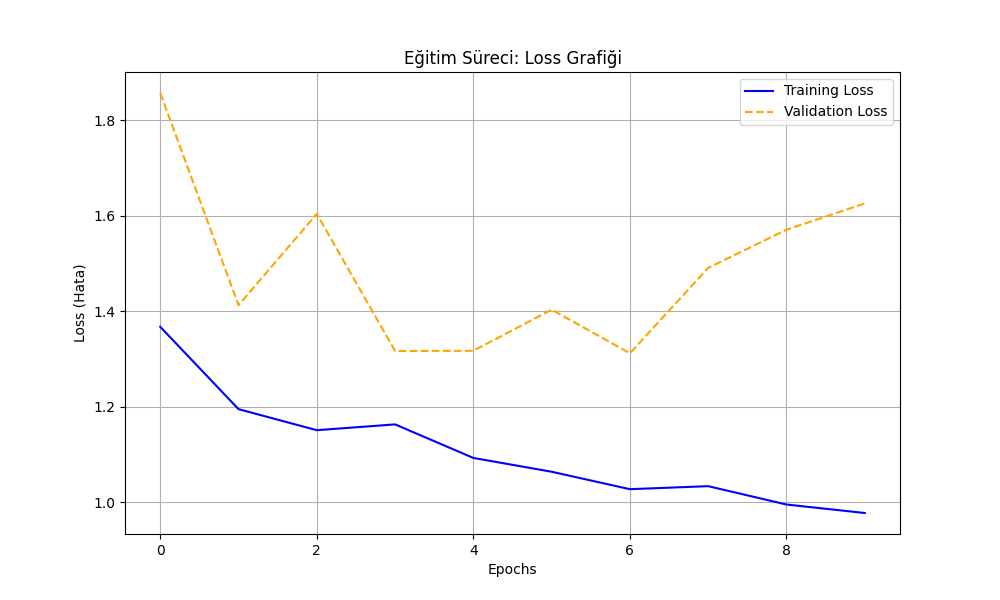
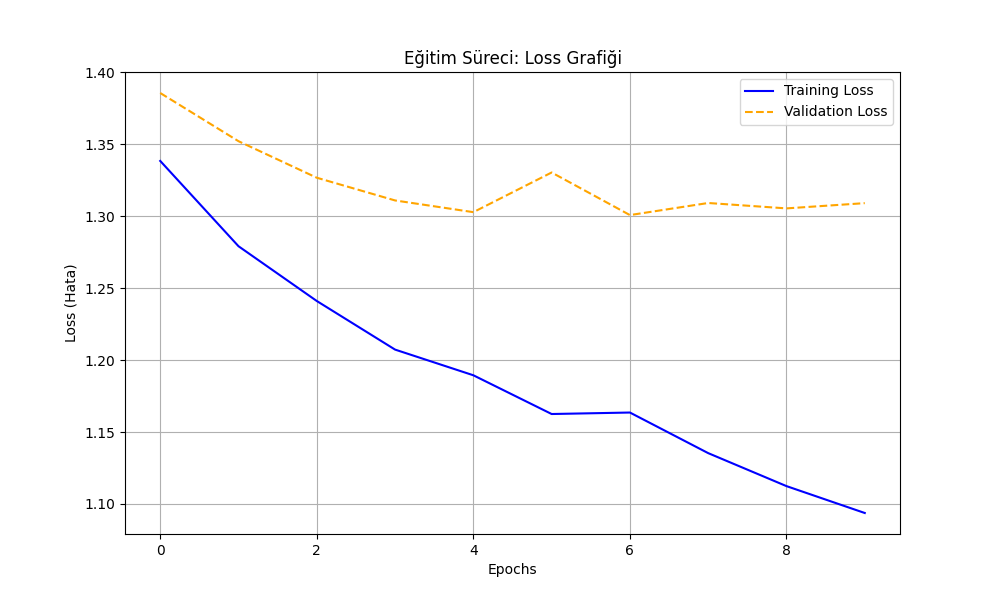
Updated files

diff --git a/src/utils/config.py b/src/utils/config.py
@@ -10,7 +10,7 @@ IMAGE_SIZE = (224, 224)
 NUM_CLASSES = 14
 
 # Fine-Tuning (İnce Ayar) için LR düşürülür, Epoch artırılır
-LEARNING_RATE = 1e-4
+LEARNING_RATE = 0.00001
 NUM_EPOCHS = 10       # Model dondurulduğu için daha uzun süre eğitebiliriz (Eski: 5)
 NUM_WORKERS = 2       # Windows'ta hata alırsan 0 yap
 

diff --git a/src/utils/plots.py b/src/utils/plots.py
@@ -2,7 +2,7 @@ import matplotlib.pyplot as plt
 import os
 
 
-def plot_loss_curves(train_loss, val_loss, save_path="logs/loss_curve.png"):
+def plot_loss_curves(train_loss, val_loss, save_path="logs/loss_curve_ChestXrayModel.png"):
     """
     Eğitim ve Doğrulama kayıp (loss) değerlerini çizer ve kaydeder.
     """
